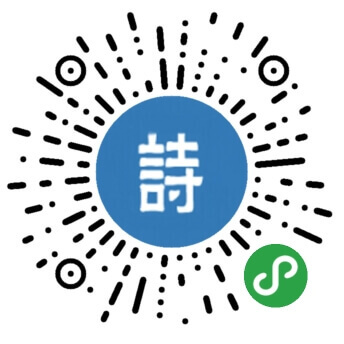
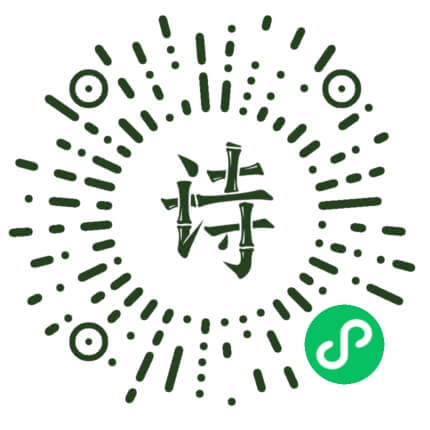
update：小程序码更新；诗词列表优化

diff --git a/src/pages/poem/index.jsx b/src/pages/poem/index.jsx
@@ -37,6 +37,7 @@ const Poem = () => {
 		type: undefined,
 		from: 'home',
 		inited: false,
+		_type: '',
 	});
 	const [pagination, updatePagination] = useState({
 		page: 1,
@@ -69,6 +70,18 @@ const Poem = () => {
 		});
 	};
 
+	const updateSearchType = (_type) => {
+		updateParams((pre) => ({
+			...pre,
+			_type,
+		}));
+		updatePagination({
+			page: 1,
+			size: 15,
+			total: 0,
+			last_page: -1,
+		});
+	};
 	useEffect(() => {
 		updatePagination((pre) => {
 			return {
@@ -202,7 +215,53 @@ const Poem = () => {
 							updateParams={updateParam}
 						/>
 					</View>
-				) : null}
+				) : (
+					<View className='filter_list '>
+						<Text className='filter_text'>筛选：</Text>
+						<View className='filter_content'>
+							<Text
+								className={`filter_item ${
+									fetchParams._type === 'title' ? 'active' : ''
+								}`}
+								onClick={() => {
+									updateSearchType('title');
+								}}
+							>
+								标题
+							</Text>
+							<Text
+								className={`filter_item ${
+									fetchParams._type === 'poem' ? 'active' : ''
+								}`}
+								onClick={() => {
+									updateSearchType('poem');
+								}}
+							>
+								诗词
+							</Text>
+							<Text
+								className={`filter_item ${
+									fetchParams._type === 'tag' ? 'active' : ''
+								}`}
+								onClick={() => {
+									updateSearchType('tag');
+								}}
+							>
+								标签
+							</Text>
+							<Text
+								className={`filter_item ${
+									fetchParams._type === 'author' ? 'active' : ''
+								}`}
+								onClick={() => {
+									updateSearchType('author');
+								}}
+							>
+								作者
+							</Text>
+						</View>
+					</View>
+				)}
 				{/* 诗词列表 */}
 				<View className='pageContainer safeBottom'>
 					{data.list.map((item) => {
@@ -212,7 +271,9 @@ const Poem = () => {
 								showCount
 								showBorder
 								key={item.id}
-								lightWord={pageOptions.from === 'search' ? pageOptions.keyWord : ''}
+								lightWord={
+									pageOptions.from === 'search' ? pageOptions.keyWord : ''
+								}
 							/>
 						);
 					})}

diff --git a/src/pages/poem/style.scss b/src/pages/poem/style.scss
@@ -45,12 +45,14 @@
 	bottom: 150px;
 	opacity: 0.9;
 	padding-left: 24px;
-	.copy, .pinyin {
+	.copy,
+	.pinyin {
 		margin-right: 16px;
 		display: inline-block;
 		background-color: #337ab7;
 		padding: 15px;
-		box-shadow: 0 6rpx 10rpx -2rpx rgba(0, 0, 0, 0.2), 0 12rpx 20rpx 0 rgba(0, 0, 0, 0.14), 0 2rpx 36rpx 0 rgba(0, 0, 0, 0.12);
+		box-shadow: 0 6rpx 10rpx -2rpx rgba(0, 0, 0, 0.2),
+			0 12rpx 20rpx 0 rgba(0, 0, 0, 0.14), 0 2rpx 36rpx 0 rgba(0, 0, 0, 0.12);
 	}
 }
 .shreContainer {
@@ -93,5 +95,38 @@
 		padding: 20px 30px;
 		z-index: 99;
 		box-shadow: 0 1px 3px hsla (0, 0%, 7%, 0.1);
+	}
+	.filter_list {
+		display: flex;
+		align-items: center;
+		justify-content: center;
+		padding: 20px 20px 0 20px;
+		row-gap: 20px;
+		.filter_text {
+			background-color: initial;
+			padding-left: 0;
+			padding-right: 20px;
+		}
+		.filter_content {
+			flex: 1;
+			display: flex;
+			align-items: center;
+			justify-content: space-between;
+		}
+		.filter_item {
+			flex: 1;
+			background-color: #fff;
+			padding: 10px 20px;
+			margin-right: 20px;
+			border-radius: 12px;
+			text-align: center;
+			&.active {
+				color: #fff;
+				background-color: #337ab7;
+			}
+			&:last-child {
+				margin-right: 0;
+			}
+		}
 	}
 }

diff --git a/src/components/PageHeader/index.jsx b/src/components/PageHeader/index.jsx
@@ -9,6 +9,7 @@ const PageHeader = (props) => {
 	const { title, showSearch = true, showBack = false } = props;
 	const MenuRect = Taro.getMenuButtonBoundingClientRect();
 	const deviceInfo = Taro.getDeviceInfo();
+	const PageDeep = Taro.getCurrentPages().length;
 	// PC端样式比较特殊，且不支持图片导出
 	const isPc = ['mac', 'windows'].includes(deviceInfo.platform);
 	const LeaveTop = isPc ? 25 : MenuRect.top;
@@ -19,6 +20,11 @@ const PageHeader = (props) => {
 		});
 	};
 	const navigateBack = () => {
+		if (PageDeep === 1) {
+			Taro.switchTab({
+				url: '/pages/index',
+			});
+		}
 		Taro.navigateBack({
 			delta: 1,
 		});

diff --git a/src/app.scss b/src/app.scss
@@ -16,6 +16,7 @@
 @import "~taro-ui/dist/style/components/checkbox.scss";
 @import "~taro-ui/dist/style/components/radio.scss";
 @import "~taro-ui/dist/style/components/swipe-action.scss";
+@import "~taro-ui/dist/style/components/list.scss";
 
 page {
 	// line-height: 1.6;

diff --git a/src/const/config.js b/src/const/config.js
@@ -1,6 +1,6 @@
 export const BaseUrl = 'https://api.xuegushi.com';
 // export const BaseUrl = 'http://127.0.0.1:3000';
-export const WxAppVersion = '6.0.4'
+export const WxAppVersion = '6.1.4'
 /**
  * 分类标签
  * { title: '分类标题',

diff --git a/src/pages/sentence/detail.jsx b/src/pages/sentence/detail.jsx
@@ -224,7 +224,7 @@ const SentenceDetail = () => {
 				<View
 					className='topNavbar'
 					style={{
-						display: isPc ? 'none' : 'block',
+						paddingTop: `${LeaveTop}px`,
 					}}
 				>
 					<View
